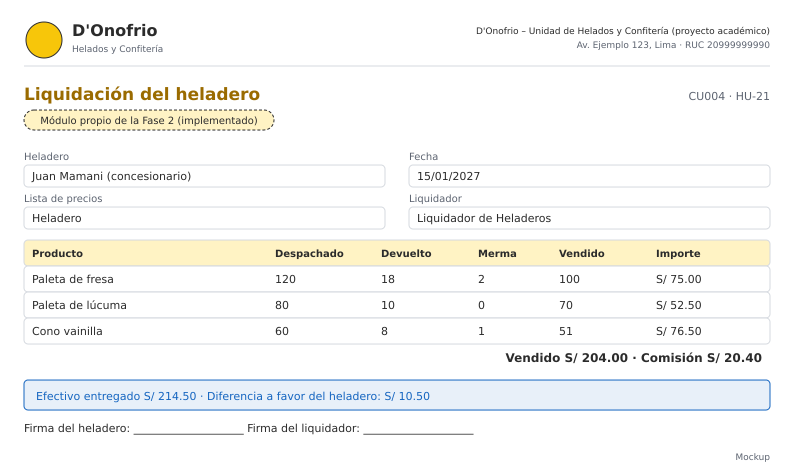
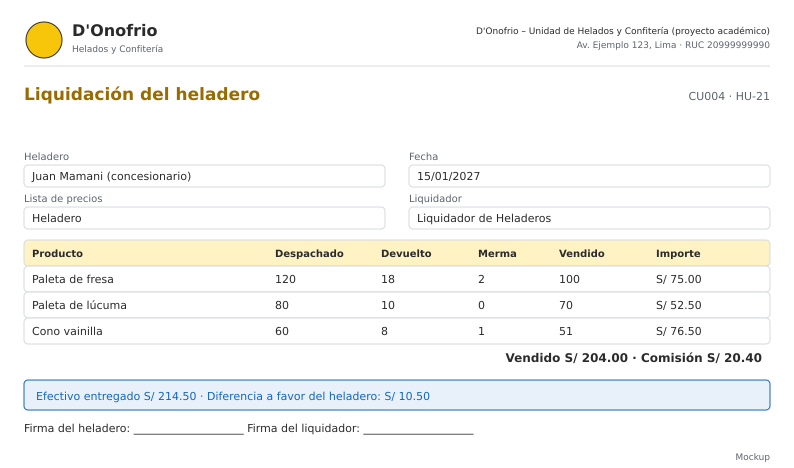
docs(diagramas): quita la etiqueta «módulo propio» de pantallas, BPMN, casos de uso, C4 y dependencias [S4]
Las pantallas de los módulos de D'Onofrio, los BPMN TO-BE de producción y
heladeros, los casos de uso de heladeros y logística, el C4 de componentes y
el grafo de dependencias ya no muestran la leyenda «módulo propio»; se
volvieron a dibujar solo esas imágenes, con el mismo tamaño.

Changed region(s): [[0.0302, 0.2094, 0.3627, 0.2991]]

diff --git a/docs/diagramas/generar_pantallas.py b/docs/diagramas/generar_pantallas.py
@@ -427,10 +427,6 @@ def dibujar(pantalla, mockup):
     s = [f'<svg xmlns="http://www.w3.org/2000/svg" width="{w}" height="{alto_total:.0f}" '
          f'viewBox="0 0 {w} {alto_total:.0f}" font-family="{e.fuente}">',
          f'<rect width="{w}" height="{alto_total:.0f}" fill="{fondo}"/>'] + cabecera
-    if pantalla.f2:
-        s.append(f'<rect x="{margen}" y="110" width="250" height="20" rx="10" '
-                 f'fill="{AMARILLO_CLARO if mockup else "#EEEEEE"}" stroke="{e.tinta}" stroke-dasharray="3 2"/>'
-                 + t(margen + 125, 124, 'Módulo propio de la Fase 2 (implementado)', e, 10, ancla='middle'))
     s += cuerpo
     s.append(t(w - margen, alto_total - 8, 'Wireframe' if not mockup else 'Mockup', e, 9, color=e.gris, ancla='end'))
     s.append('</svg>')

diff --git a/docs/diagramas/generar_bpmn.py b/docs/diagramas/generar_bpmn.py
@@ -561,10 +561,6 @@ def a_svg(p):
     else:
         s.append(f'<rect x="{X0}" y="{ly - 12}" width="16" height="14" rx="3" fill="#f4f7fb" stroke="#222"/>'
                  f'<text x="{X0 + 24}" y="{ly}" font-size="11">Tarea con Odoo estándar (Fase 1)</text>')
-        if any(n.f2 for n in p.nodos.values()):
-            s.append(f'<rect x="{X0 + 230}" y="{ly - 12}" width="16" height="14" rx="3" fill="#fff3c4" stroke="#b7950b"/>'
-                     f'<text x="{X0 + 254}" y="{ly}" font-size="11">Depende del módulo propio de la Fase 2 '
-                     '(implementado: M1, M2 y M3)</text>')
     s.append('</svg>')
     return '\n'.join(s)
 

diff --git a/scripts/grafo_dependencias.py b/scripts/grafo_dependencias.py
@@ -61,7 +61,7 @@ ESTILO = {
     'odoo': ('#e8f1fb', '#2c5282'),
 }
 ETIQUETA_ORIGEN = {
-    'propio': 'Módulo propio (donofrio_base)',
+    'propio': "Configuración base D'Onofrio",
     'oca': 'OCA (auditlog, fijado por commit)',
     'odoo': 'Odoo 19.0 Community',
     'base': 'Núcleo (base)',
